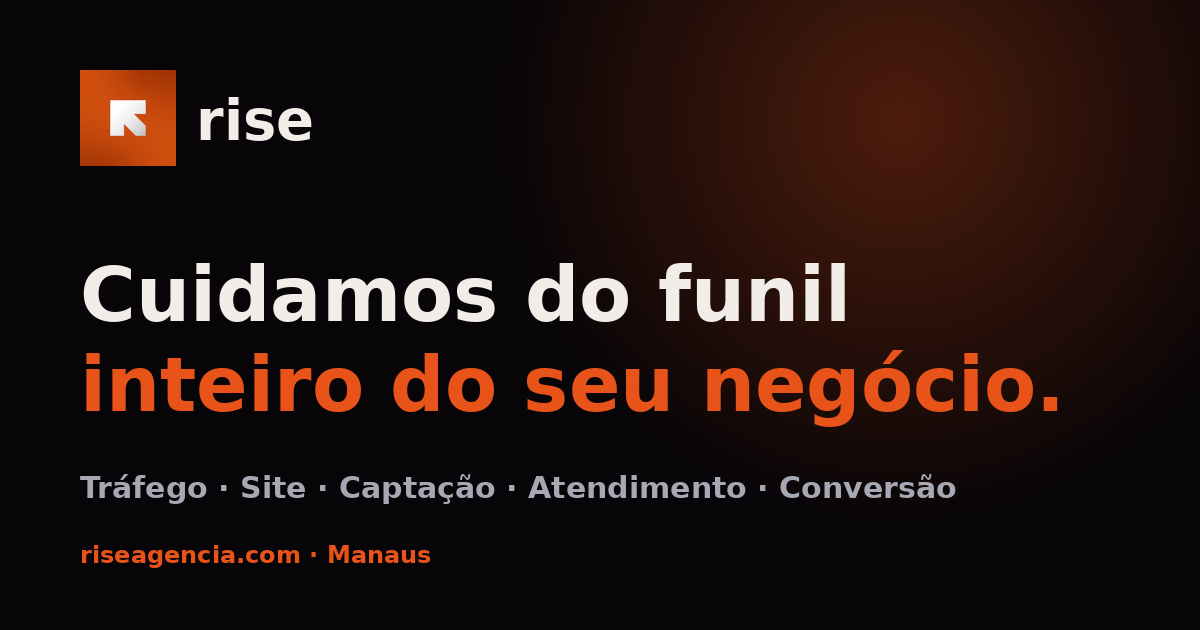
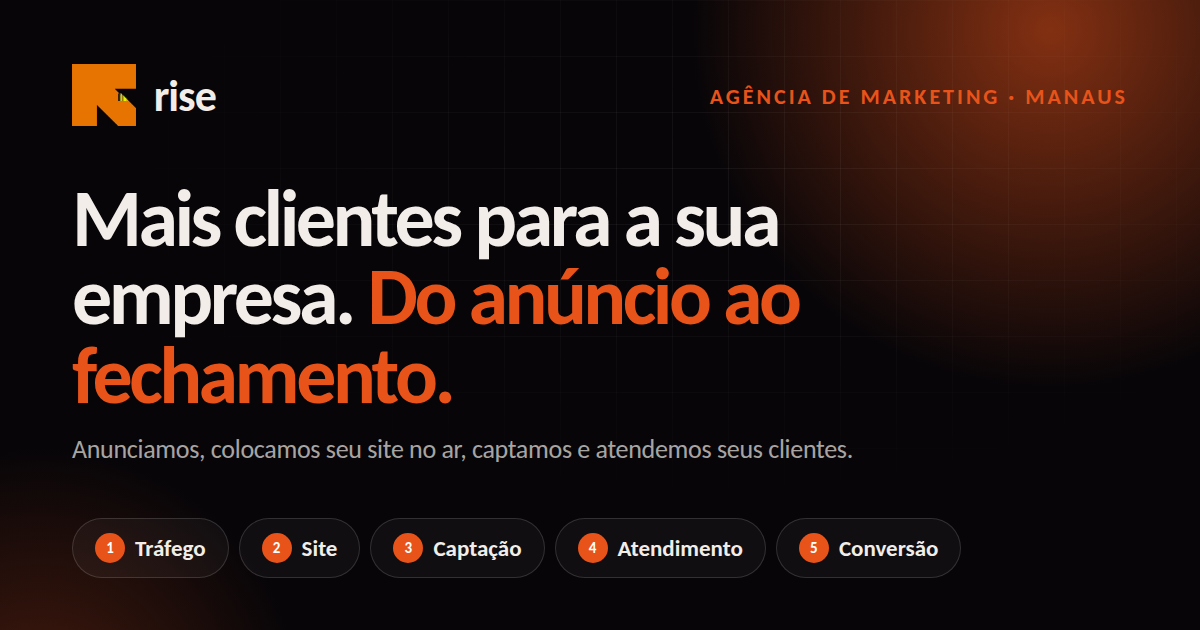
Add files via upload

diff --git a/index.html b/index.html
@@ -6,8 +6,8 @@
 <title>RISE — Tráfego, site, captação, atendimento e conversão</title>
 <meta name="description" content="A RISE cuida do funil inteiro do seu negócio: anúncios, site, captação de contatos, atendimento no WhatsApp e conversão. Manaus, Brasil.">
 <link rel="canonical" href="https://www.riseagencia.com/">
-<meta property="og:title" content="RISE — Cuidamos do funil inteiro do seu negócio">
-<meta property="og:description" content="Tráfego, site, captação, atendimento e conversão. Uma equipe, um responsável.">
+<meta property="og:title" content="RISE — Mais clientes para a sua empresa. Do anúncio ao fechamento.">
+<meta property="og:description" content="Agência de marketing em Manaus. Anunciamos, colocamos seu site no ar, captamos e atendemos seus clientes. Tráfego · Site · Captação · Atendimento · Conversão.">
 <meta property="og:url" content="https://www.riseagencia.com/">
 <meta property="og:type" content="website">
 <script async src="https://www.googletagmanager.com/gtag/js?id=G-0ZZ46BRRSL"></script>
@@ -22,8 +22,8 @@
 <meta property="og:site_name" content="RISE">
 <meta property="og:locale" content="pt_BR">
 <meta name="twitter:card" content="summary_large_image">
-<meta name="twitter:title" content="RISE — Cuidamos do funil inteiro do seu negócio">
-<meta name="twitter:description" content="Tráfego, site, captação, atendimento e conversão. Uma equipe, um responsável.">
+<meta name="twitter:title" content="RISE — Mais clientes para a sua empresa. Do anúncio ao fechamento.">
+<meta name="twitter:description" content="Agência de marketing em Manaus. Anunciamos, colocamos seu site no ar, captamos e atendemos seus clientes.">
 <meta name="twitter:image" content="https://www.riseagencia.com/og.png">
 <script type="application/ld+json">{"@context":"https://schema.org","@type":"MarketingAgency","name":"RISE","url":"https://www.riseagencia.com/","logo":"https://www.riseagencia.com/apple-touch-icon.png","image":"https://www.riseagencia.com/og.png","telephone":"+5592991755756","address":{"@type":"PostalAddress","addressLocality":"Manaus","addressRegion":"AM","addressCountry":"BR"},"sameAs":["https://www.instagram.com/by.risedsgn/","https://blog.riseagencia.com"]}</script>
 <link rel="preconnect" href="https://fonts.googleapis.com">
